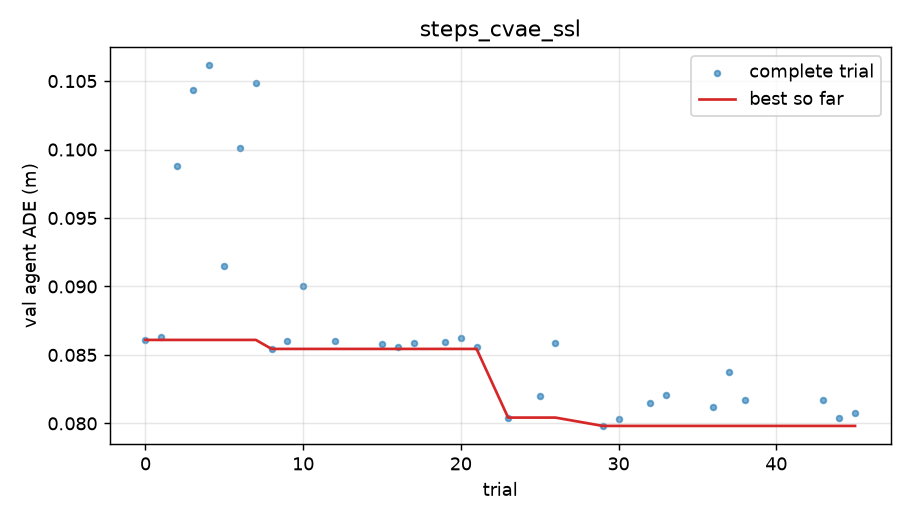
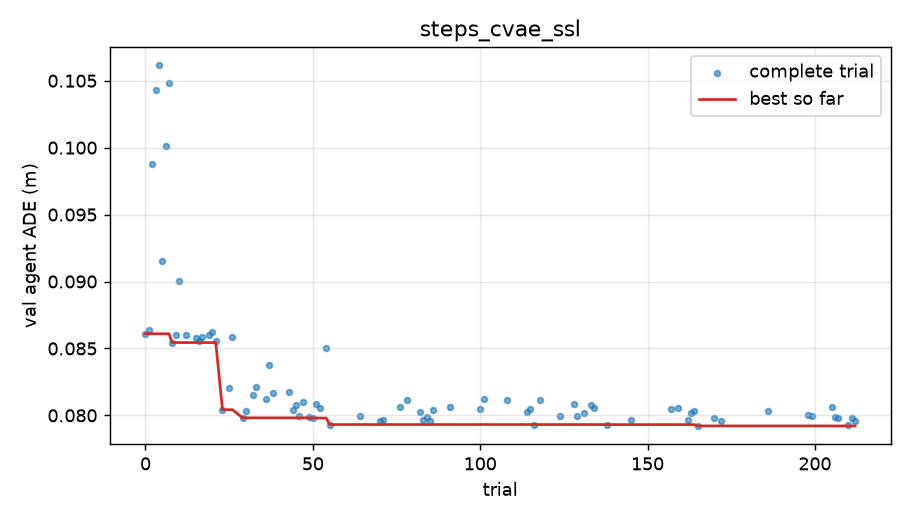
Final SSL Optuna report; log decision 62

diff --git a/docs/results/hpo_steps_cvae_ssl.md b/docs/results/hpo_steps_cvae_ssl.md
@@ -1,31 +1,31 @@
 # Optuna study `steps_cvae_ssl`
 
-50 trials: 31 complete, 15 pruned. Objective: validation macro agent ADE (best-of-K, K from the study command), lower is better.
+213 trials: 82 complete, 131 pruned. Objective: validation macro agent ADE (best-of-K, K from the study command), lower is better.
 
 ## Top 8 trials
 
 | trial | value | cvae_latent_dim | decoder_dropout | decoder_hidden_dim | encoder_lr_ratio | encoder_mode | kl_weight | learning_rate | max_nodes | representation | warmup_epochs | weight_decay |
 | ---: | ---: | --- | --- | --- | --- | --- | --- | --- | --- | --- | --- | --- |
-| 29 | 0.0798 | 16 | 0.0921 | 256 | 0.389 | finetune | 0.1 | 0.00108 | 4096 | hidden | 2.79 | 0.000927 |
-| 30 | 0.0803 | 32 | 0.186 | 256 | 0.414 | finetune | 0.117 | 0.00156 | 4096 | hidden | 1.55 | 0.00139 |
-| 44 | 0.0804 | 16 | 0.0249 | 256 | 0.305 | finetune | 0.0682 | 0.0028 | 4096 | hidden | 4.54 | 0.000353 |
-| 23 | 0.0804 | 16 | 0.273 | 128 | 0.293 | finetune | 0.11 | 0.00116 | 4096 | hidden | 1.85 | 0.00131 |
-| 45 | 0.0808 | 16 | 0.0613 | 512 | 0.341 | finetune | 0.14 | 0.00104 | 4096 | hidden | 2.67 | 0.0013 |
-| 36 | 0.0812 | 16 | 0.129 | 256 | 0.456 | finetune | 0.152 | 0.00134 | 4096 | hidden | 4.49 | 0.000144 |
-| 32 | 0.0815 | 16 | 0.284 | 128 | 0.311 | finetune | 0.175 | 0.00152 | 4096 | hidden | 1.83 | 0.00243 |
-| 38 | 0.0817 | 32 | 0.102 | 256 | 0.85 | finetune | 0.131 | 0.00129 | 4096 | hidden | 2.02 | 0.00126 |
+| 165 | 0.0792 | 8 | 0.0183 | 128 | 0.189 | finetune | 0.0607 | 0.00236 | 4096 | hidden | 1.8 | 0.000112 |
+| 210 | 0.0793 | 8 | 0.00814 | 128 | 0.134 | finetune | 0.0605 | 0.00212 | 4096 | hidden | 1.68 | 0.000188 |
+| 138 | 0.0793 | 64 | 0.0495 | 256 | 0.198 | finetune | 0.0622 | 0.00152 | 4096 | hidden | 4.9 | 0.00506 |
+| 116 | 0.0793 | 32 | 0.164 | 256 | 0.0823 | finetune | 0.0667 | 0.00255 | 4096 | hidden | 4.77 | 0.00298 |
+| 55 | 0.0793 | 64 | 0.044 | 256 | 0.149 | finetune | 0.0533 | 0.00234 | 4096 | hidden | 4.57 | 0.00639 |
+| 172 | 0.0796 | 64 | 0.0615 | 256 | 0.24 | finetune | 0.063 | 0.0015 | 4096 | hidden | 4.9 | 0.00971 |
+| 85 | 0.0796 | 64 | 0.172 | 256 | 0.127 | finetune | 0.0647 | 0.00142 | 4096 | hidden | 4.96 | 0.00759 |
+| 212 | 0.0796 | 8 | 0.121 | 256 | 0.143 | finetune | 0.0659 | 0.00155 | 4096 | hidden | 1.75 | 0.00114 |
 
 ## Parameter importance (fANOVA)
 
 | parameter | importance |
 | --- | ---: |
-| kl_weight | 0.512 |
-| warmup_epochs | 0.128 |
-| cvae_latent_dim | 0.103 |
-| decoder_dropout | 0.076 |
-| decoder_hidden_dim | 0.061 |
-| weight_decay | 0.043 |
-| learning_rate | 0.031 |
-| max_nodes | 0.022 |
-| encoder_mode | 0.012 |
-| representation | 0.012 |
+| kl_weight | 0.558 |
+| warmup_epochs | 0.183 |
+| cvae_latent_dim | 0.056 |
+| decoder_dropout | 0.055 |
+| decoder_hidden_dim | 0.035 |
+| encoder_mode | 0.035 |
+| weight_decay | 0.027 |
+| learning_rate | 0.024 |
+| representation | 0.020 |
+| max_nodes | 0.008 |

diff --git a/docs/decisions.md b/docs/decisions.md
@@ -637,3 +637,12 @@ why, and how to undo it.
     noise (about 0.0007 m, decision 44). KL weight (52%) and encoder dropout (22%) explain most
     of the variance. No further search on STEPS with this search space: remaining gains have to
     come from data, schedule (60) or architecture, not from these hyperparameters.
+
+62. **The SSL fine-tuning Optuna search has ended** (`docs/results/hpo_steps_cvae_ssl.md`). 213 trials
+    ran (82 complete, 131 pruned). The best is trial 165 at 0.0792 m validation ADE: fine-tuned
+    encoder, KL 0.061, LR 2.4e-3, encoder LR ratio 0.19. The top eight trials are all fine-tuned
+    rather than frozen. Against the best scratch trial (0.0798, decision 61) the difference is
+    0.0006 m, about one seed standard deviation, so pretraining on STEPS remains a small effect.
+    The importances repeat the scratch study: KL weight 56%, warmup 18%. Trial 165 is not
+    retrained at full length: the expected gain is within seed noise, and the GPUs are better
+    spent on the annealing and closed-loop runs (60).
